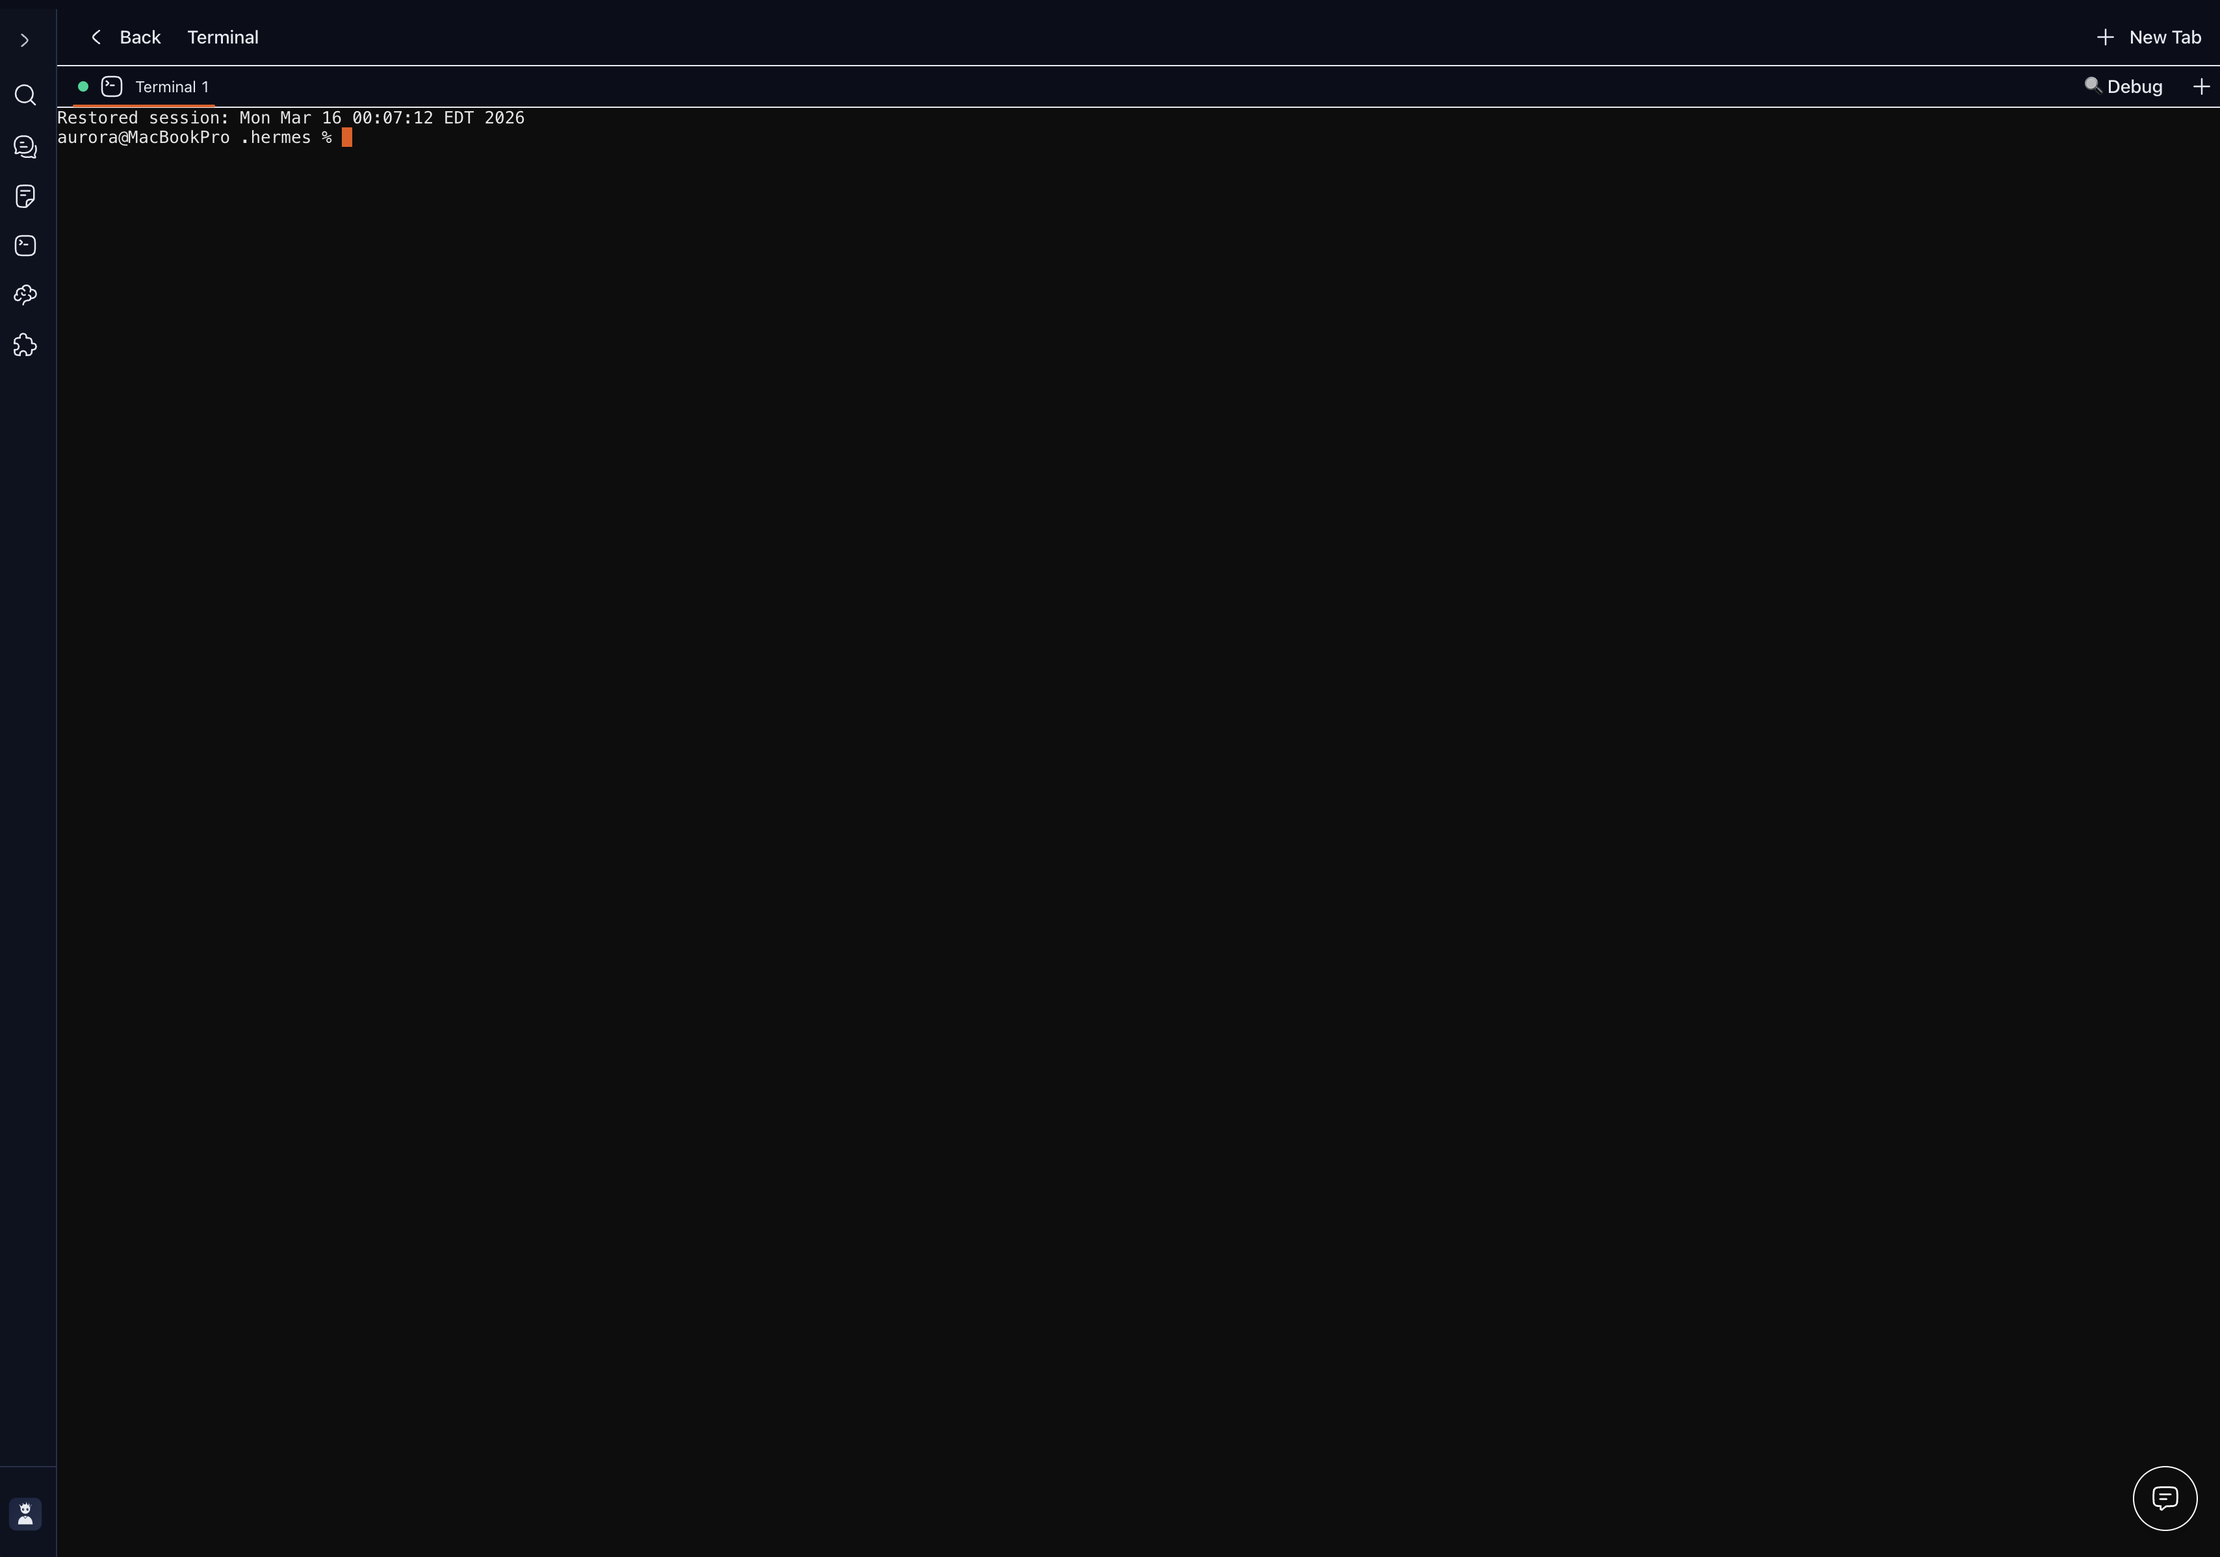
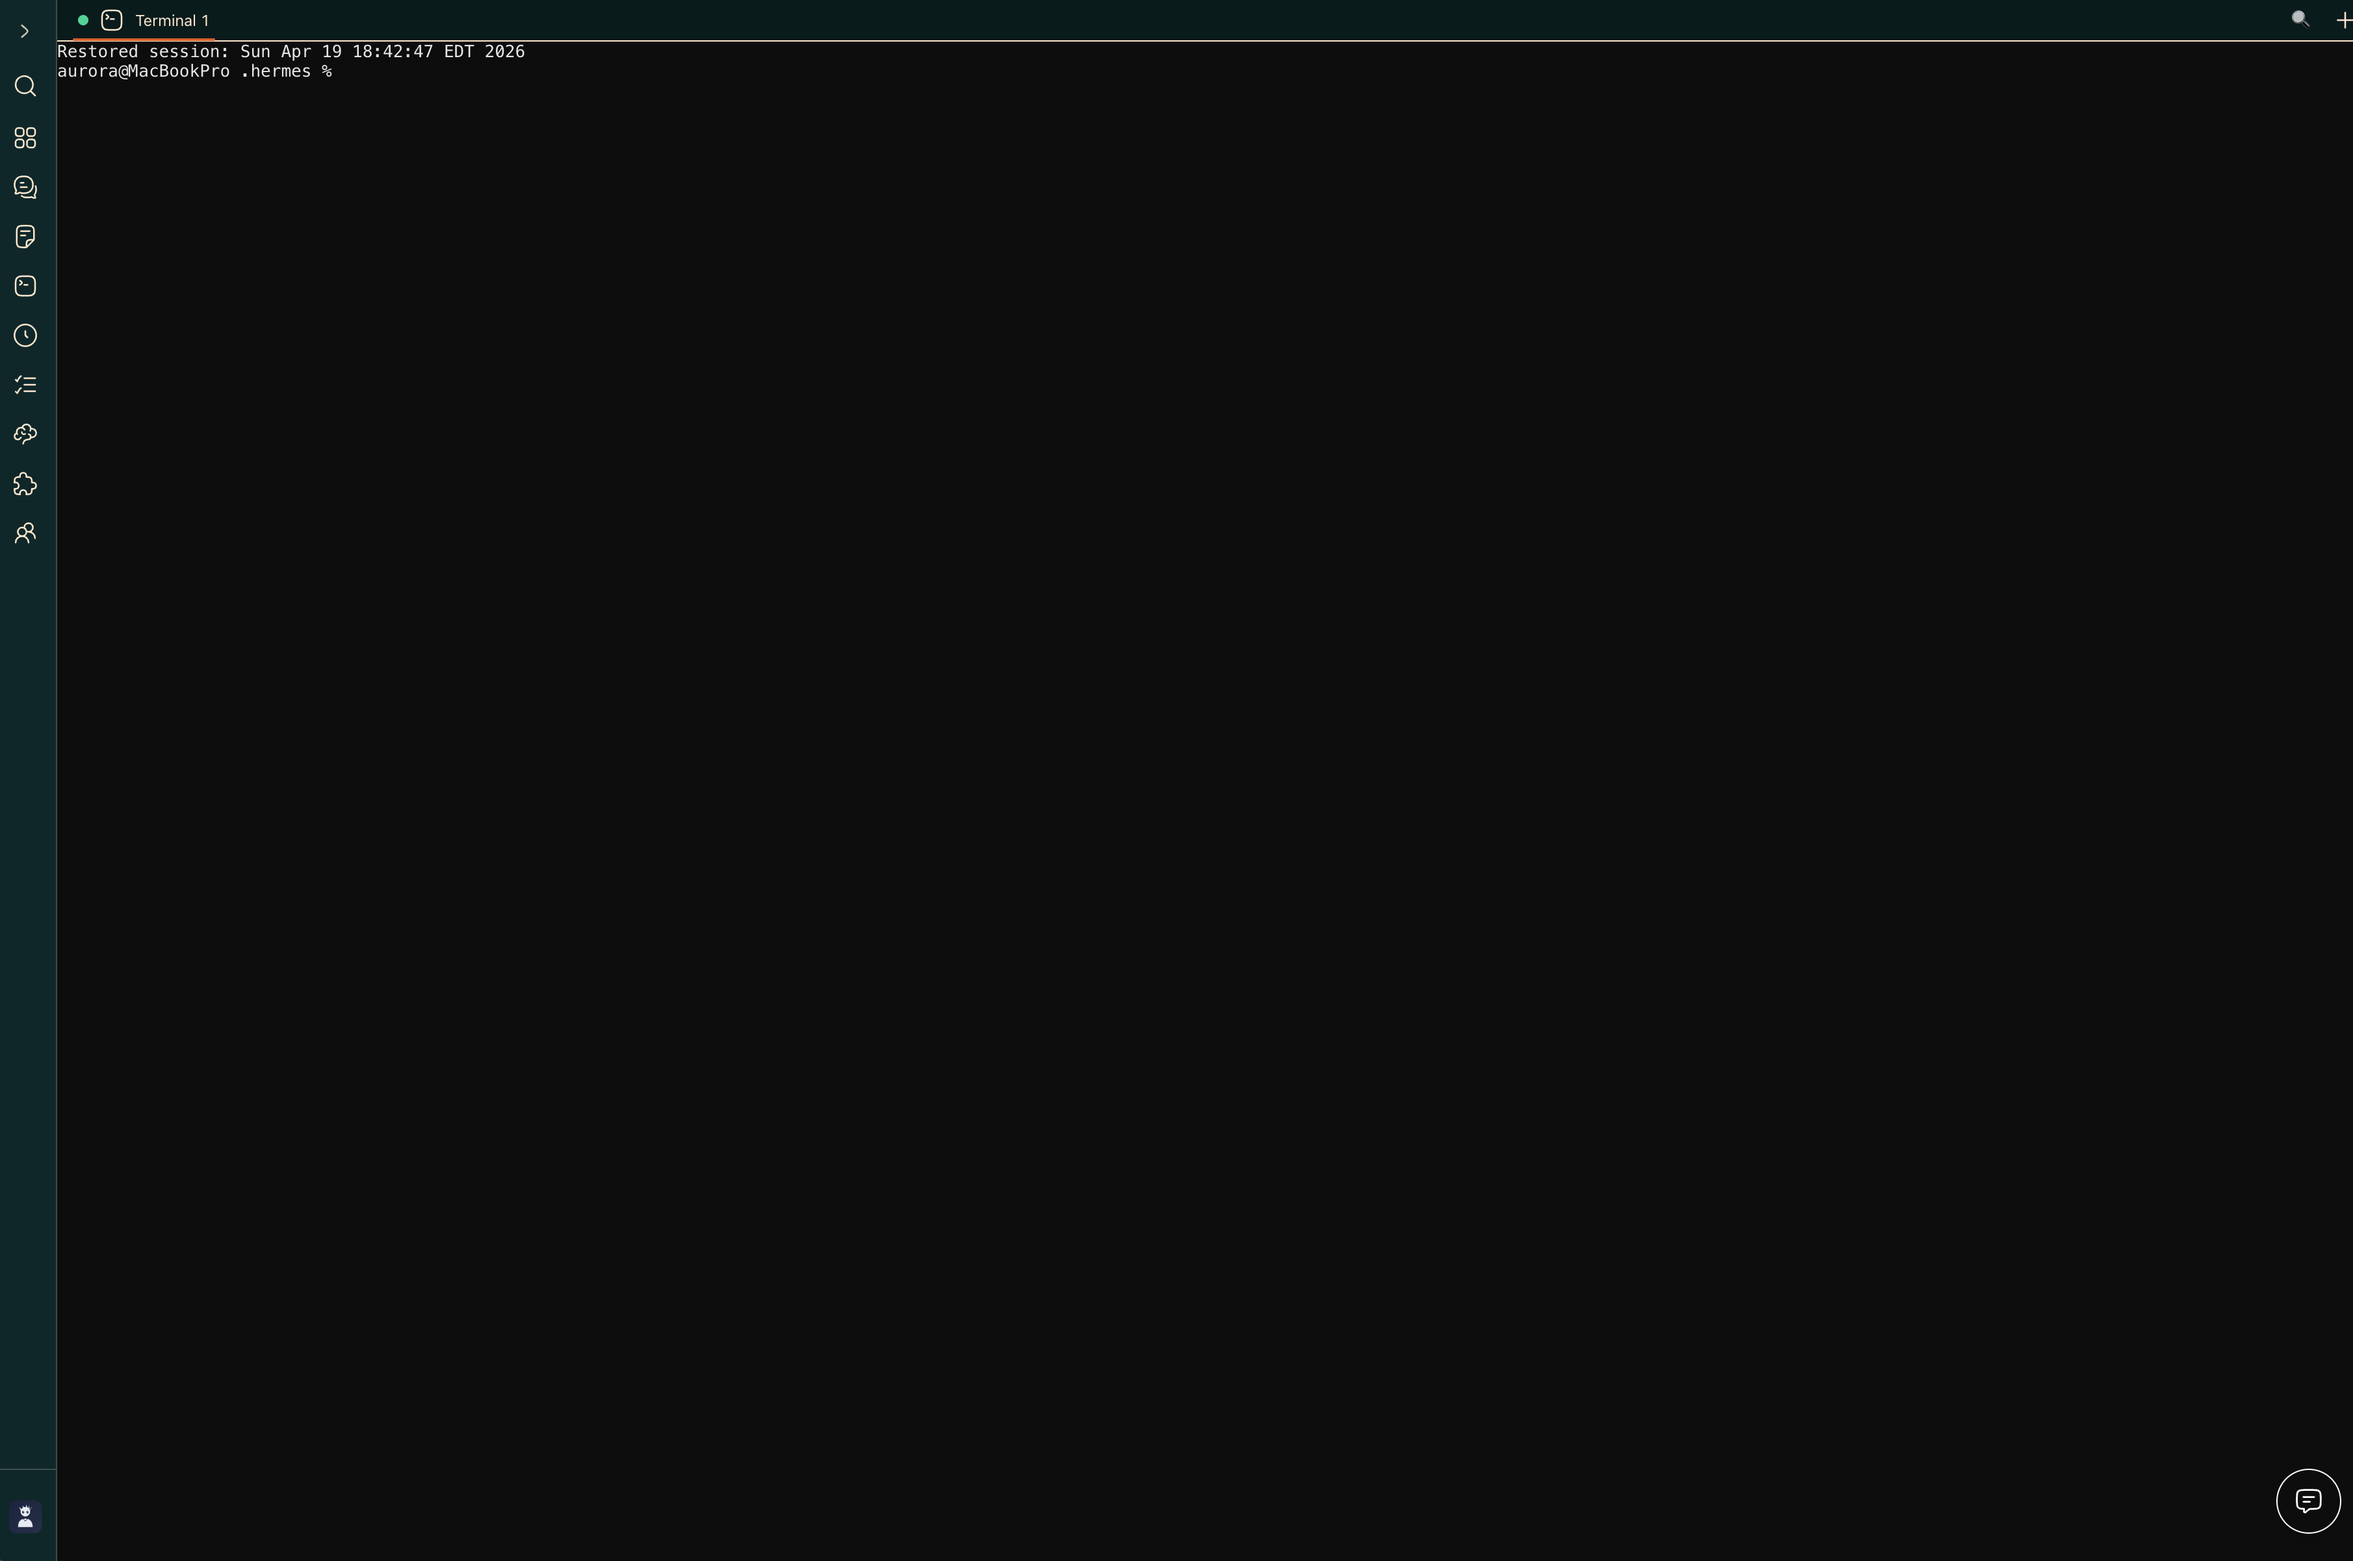
docs(screenshots): refresh + add Conductor, Dashboard, Tasks, Jobs
- Replace stale chat/memory/settings/terminal with latest UI captures
- Add conductor.png, dashboard.png, tasks.png, jobs.png
- README screenshot grid: 8 plates instead of 6, surfaces v2 Conductor

diff --git a/README.md b/README.md
@@ -34,17 +34,21 @@
 
 ## 📸 Screenshots
 
-|                 Chat                 |                 Files                  |
-| :----------------------------------: | :------------------------------------: |
-| ![Chat](./docs/screenshots/chat.png) | ![Files](./docs/screenshots/files.png) |
+|                 Chat                 |                  Conductor                   |
+| :----------------------------------: | :------------------------------------------: |
+| ![Chat](./docs/screenshots/chat.png) | ![Conductor](./docs/screenshots/conductor.png) |
 
-|                   Terminal                   |                  Memory                  |
+|                   Dashboard                  |                  Memory                  |
 | :------------------------------------------: | :--------------------------------------: |
-| ![Terminal](./docs/screenshots/terminal.png) | ![Memory](./docs/screenshots/memory.png) |
+| ![Dashboard](./docs/screenshots/dashboard.png) | ![Memory](./docs/screenshots/memory.png) |
 
-|                  Skills                  |                   Settings                   |
-| :--------------------------------------: | :------------------------------------------: |
-| ![Skills](./docs/screenshots/skills.png) | ![Settings](./docs/screenshots/settings.png) |
+|                   Terminal                   |                   Settings                   |
+| :------------------------------------------: | :------------------------------------------: |
+| ![Terminal](./docs/screenshots/terminal.png) | ![Settings](./docs/screenshots/settings.png) |
+
+|                  Tasks                  |                 Jobs                 |
+| :--------------------------------------: | :----------------------------------: |
+| ![Tasks](./docs/screenshots/tasks.png) | ![Jobs](./docs/screenshots/jobs.png) |
 
 ---
 
